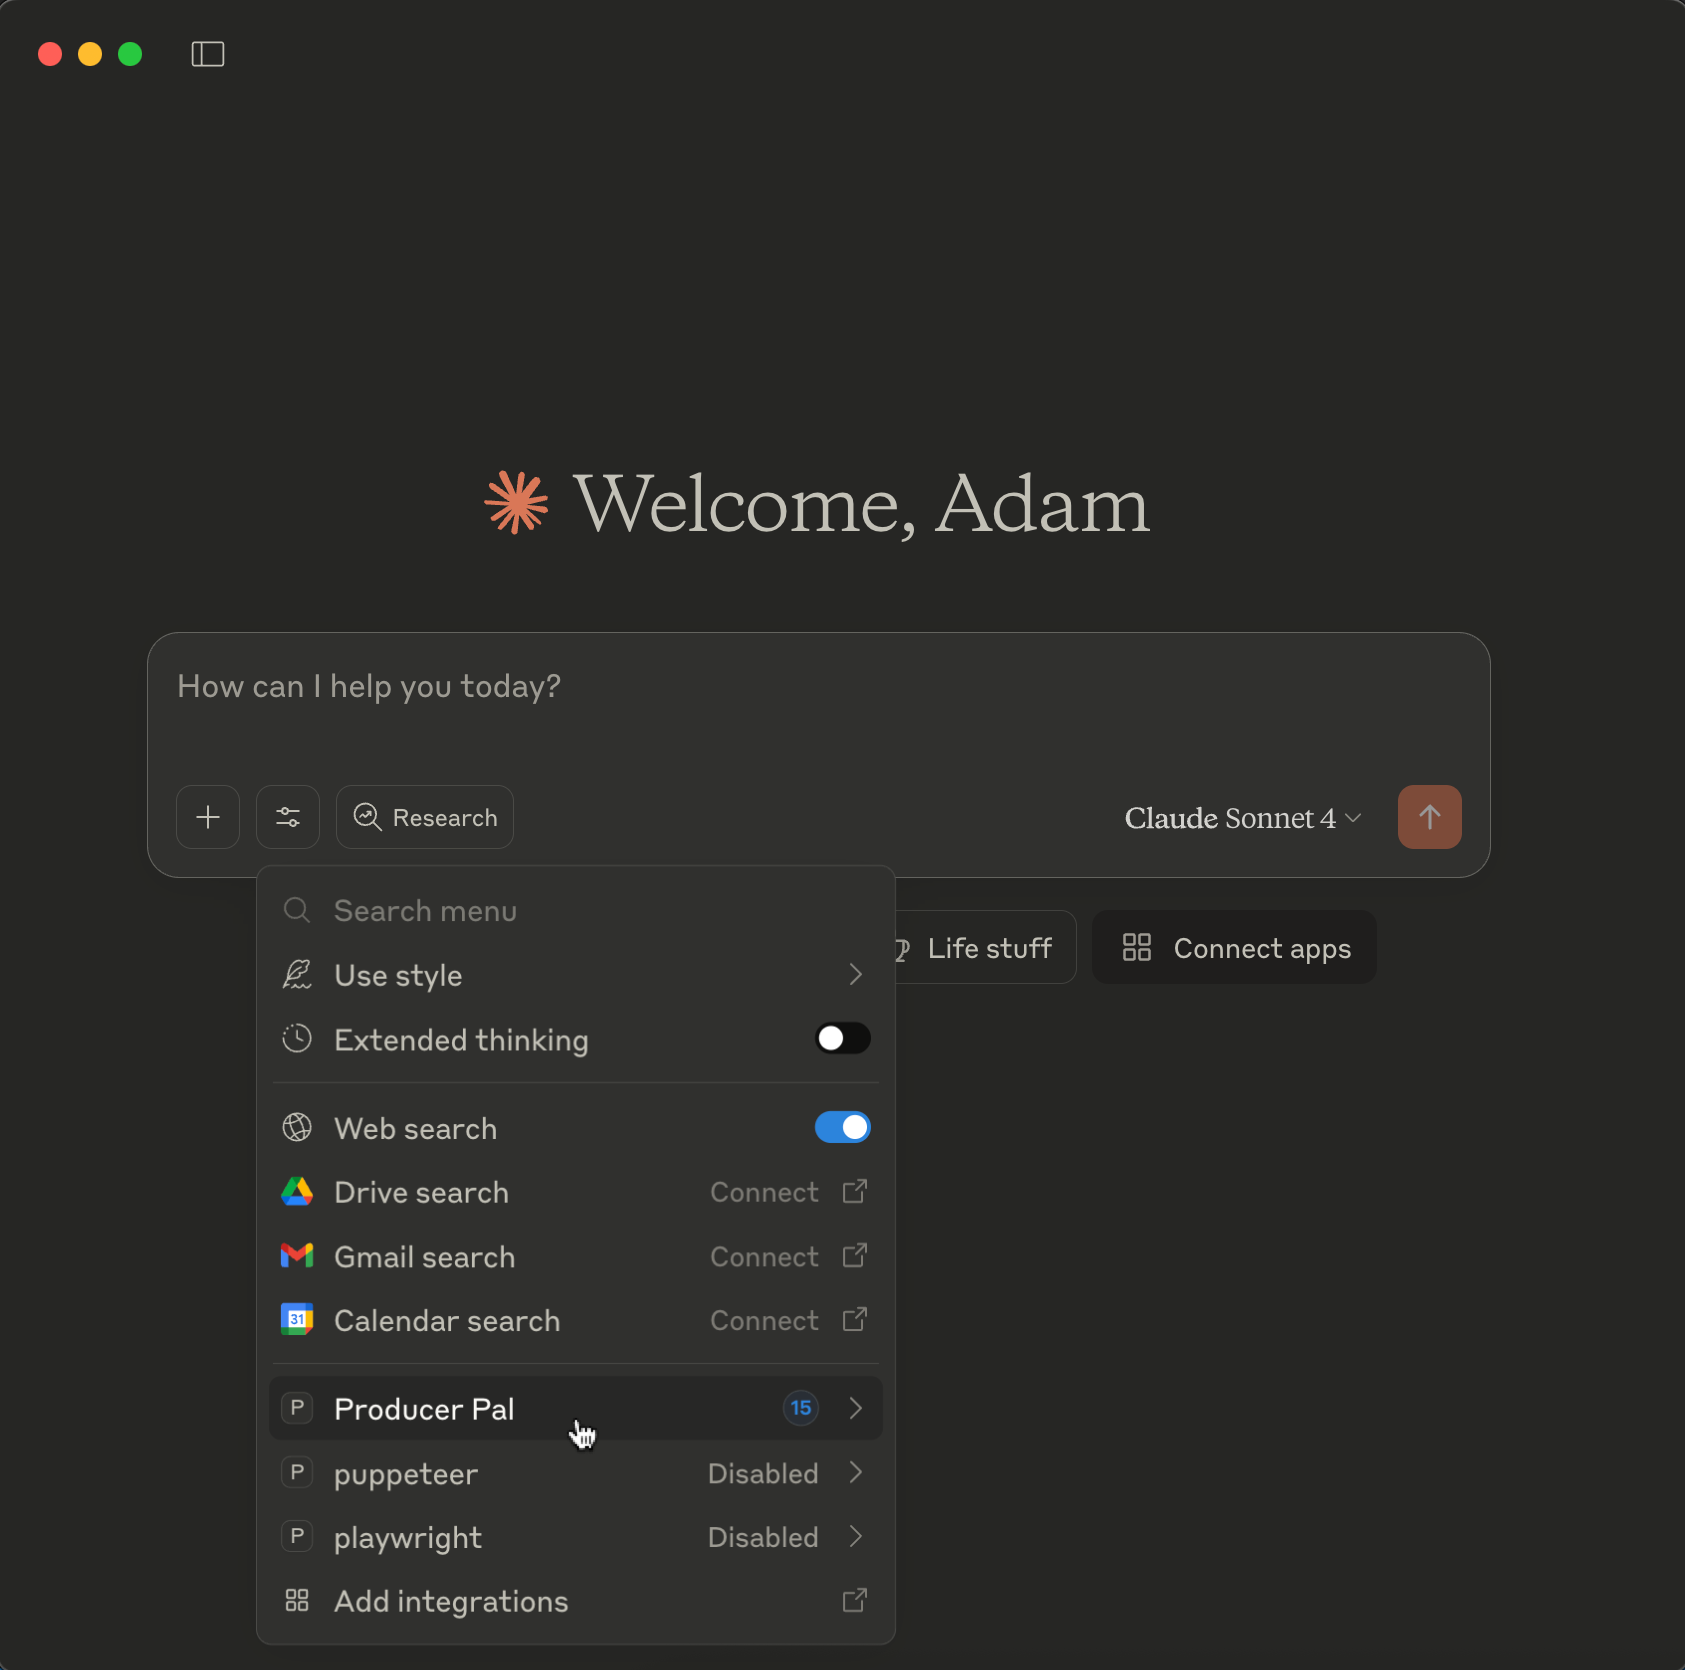
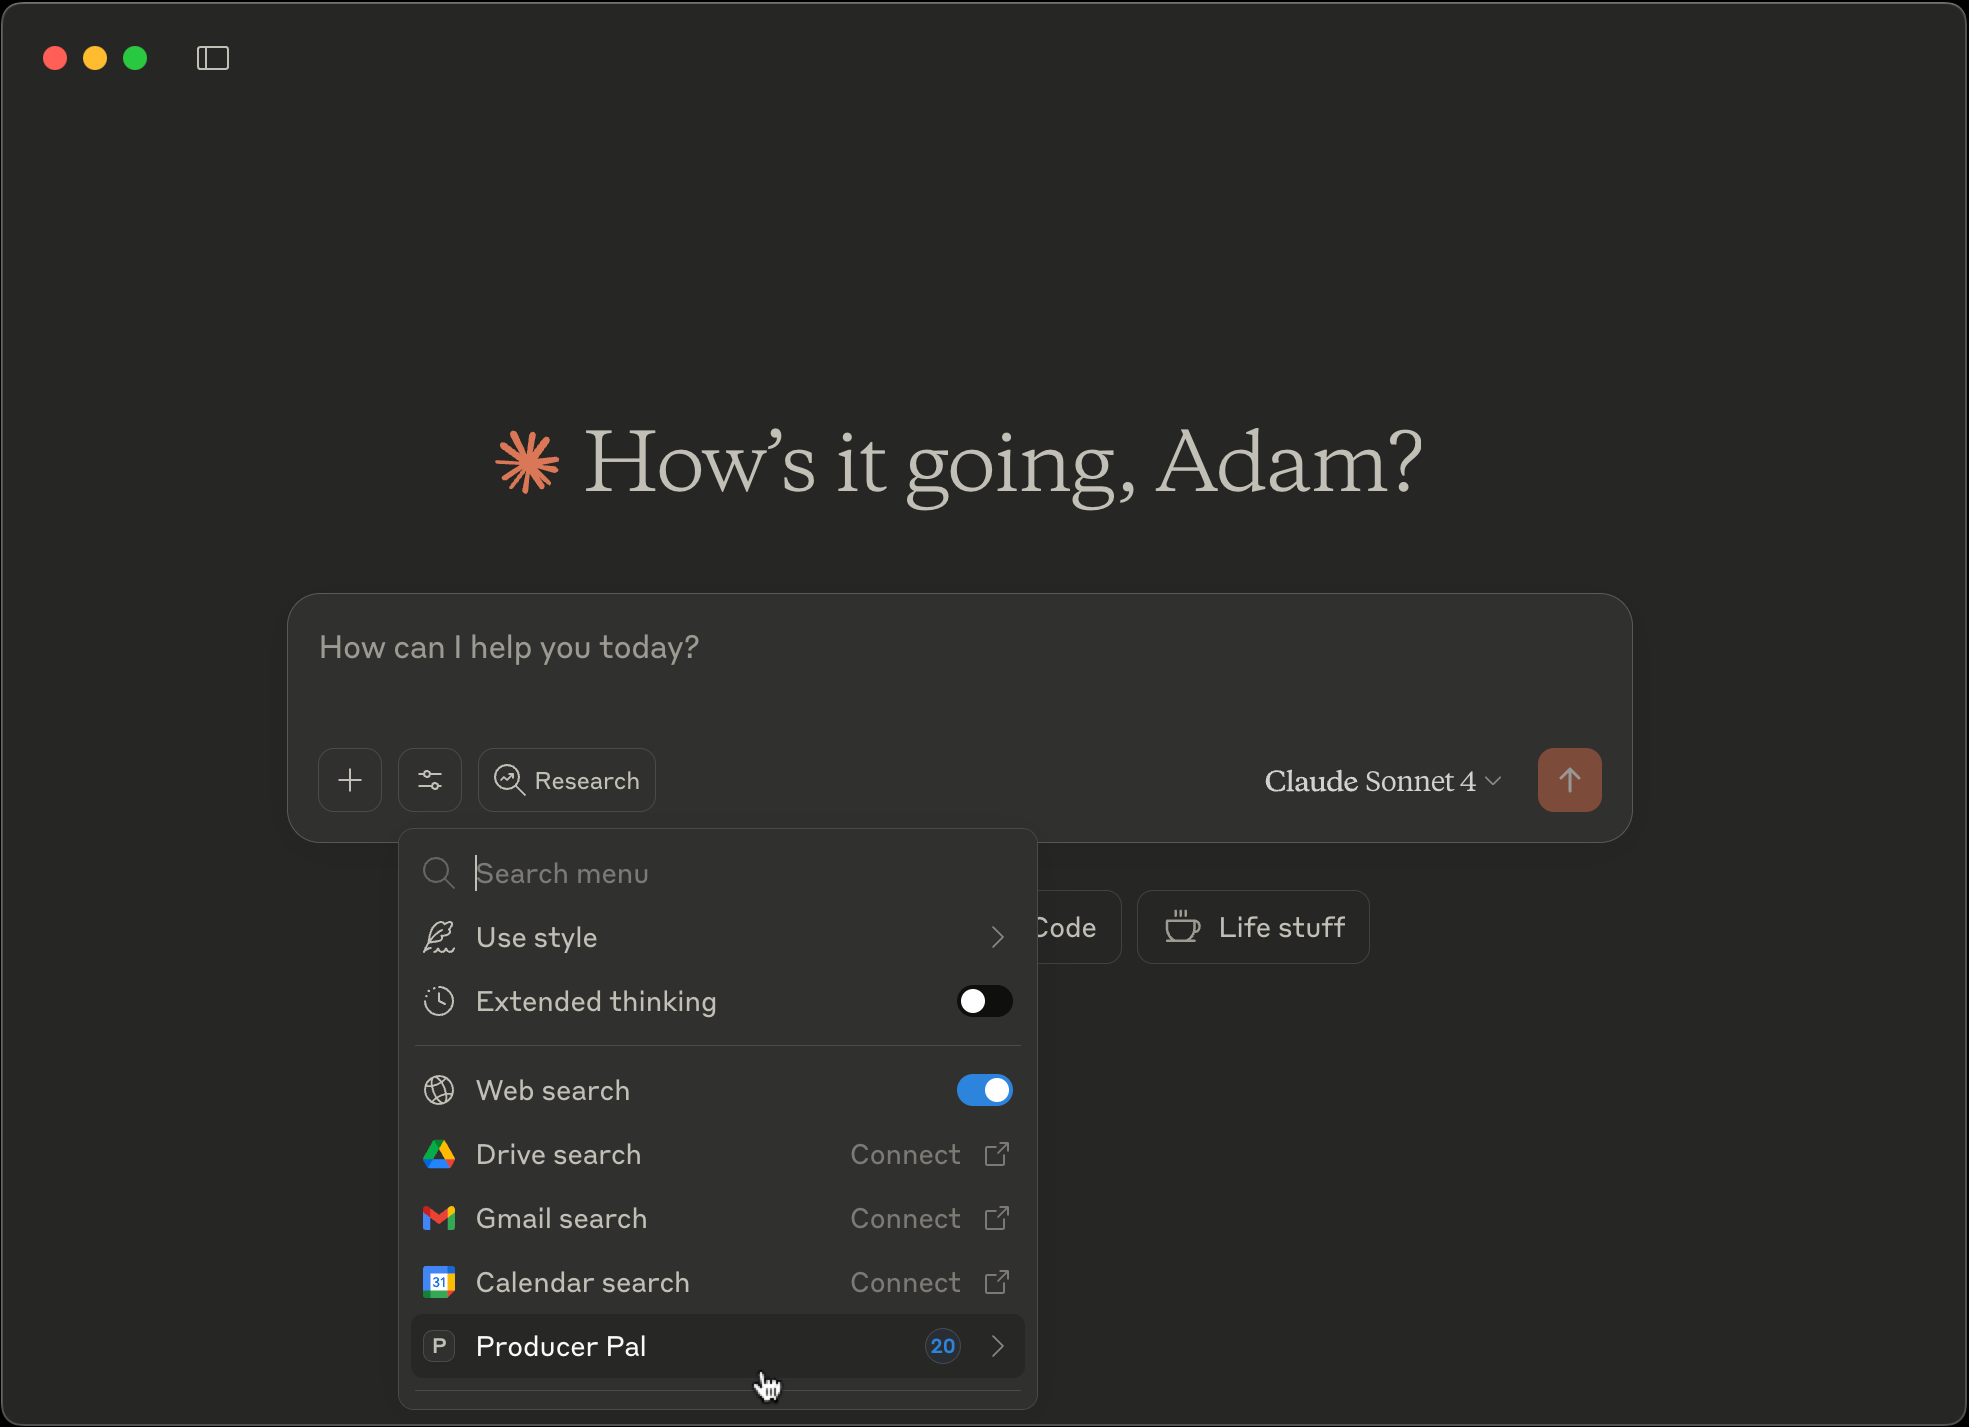
update install instructions

diff --git a/README.md b/README.md
@@ -10,7 +10,8 @@ Make music in Ableton Live with an AI assistant such as
   Suite edition)
 - [Claude Desktop](https://claude.ai/download) (or another
   [MCP-compatible](https://modelcontextprotocol.io/) AI chat client like Claude
-  Code or VS Code)
+  Code or VS Code). _I hope to add support for more AI models via something like
+  [LM Studio](https://lmstudio.ai/) in the future._
 
 ## Installing
 
@@ -26,27 +27,43 @@ Make music in Ableton Live with an AI assistant such as
 
    ![install in Ableton](./img/install-in-ableton.png)
 
-3. Open Claude Desktop &rarr; Settings &rarr; Extensions. Drag and drop
+3. Install into Claude Desktop by going to Claude Desktop &rarr; Settings &rarr;
+   Extensions and:
+
+   3a. If you already have extensions installed, you can drag and drop
    [Producer_Pal.dxt](https://github.com/adamjmurray/producer-pal/releases/latest/download/Producer_Pal.dxt)
-   into it:
+   into the Extensions screen:
 
-   ![install in Claude](./img/install-in-claude.png)
+   ![install in Claude Desktop](./img/install-in-claude.png)
 
-4. Don't forget to click "Install"
+   3b. Or, if you have never installed a Claude Desktop extension before, you
+   need to click "Advanced settings" on the Extensions screen, then click
+   "Install extension...", and choose the
+   [Producer_Pal.dxt](https://github.com/adamjmurray/producer-pal/releases/latest/download/Producer_Pal.dxt)
+   file.
 
-   ![install in Claude, part 2](./img/install-in-claude-2.png)
+   ![install first extension in Claude Desktop](./img/install-in-claude-first-extension.png)
 
-5. You should see 16 Producer Pal tools in Claude's "Search and Tools" menu
+4. Don't forget to click "Install" and complete the Claude Desktop installation:
+
+   ![install in Claude Desktop, part 2](./img/install-in-claude-2.png)
+
+5. You should see 20 Producer Pal tools in Claude's "Search and Tools" menu:
 
    ![Producer Pal tools in Claude](./img/tools-in-claude.png)
 
 6. Start a conversation with "Let's play with Ableton Live"
 
-   ![Producer Pal demo](./img/screenshot.png)
+   ![Producer Pal start a conversation](./img/screenshot.png)
+
+7. In order for Producer Pal to work, you need to allow the tools to be used:
+
+   ![Producer Pal allow tools](./img/producer-pal-permission.png)
+
+See the [usage info for help getting started](#usage).
 
 See
-[the latest release](https://github.com/adamjmurray/producer-pal/releases/latest/)
-for more info on this version.
+[the latest release for more info on this version](https://github.com/adamjmurray/producer-pal/releases/latest/).
 
 ## Support and Issues
 
